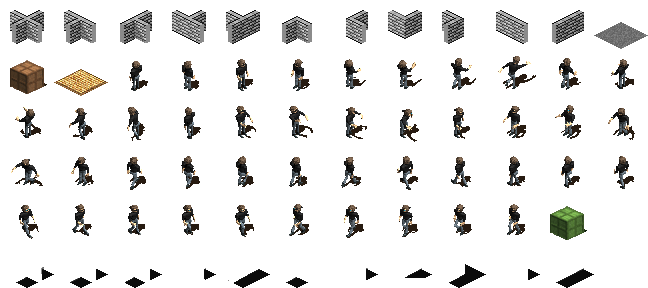
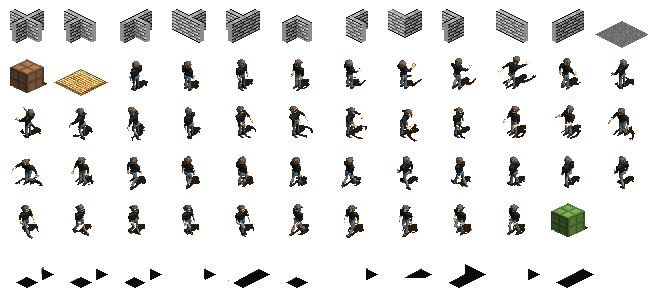
Fixed Map

diff --git a/www/examples/sokoban/world.js b/www/examples/sokoban/world.js
@@ -6,13 +6,14 @@ Sokoban.World = j5g3.GDK.Element.extend({
 	var
 		me = this,
 		ss = Sokoban.assets.spritesheet,
-		floor = me.floor = j5g3.map({ sprites: j5g3.Util.fill(30, ss.__sprites[11]), tw: 54, th: 49, offsetY: -11 }).set_iso(),
-		shadows = me.shadows = j5g3.map({ sprites: j5g3.Util.fill(30, ss.__sprites[71]), tw: 54, th: 49, offsetY: -11 }).set_iso(),
+		floor = me.floor = j5g3.map({ sprites: j5g3.Util.fill(30, ss.__sprites[11]), tw: 54, th: 48, offsetY: -10 }).set_iso(),
+		shadows = me.shadows = j5g3.map({ sprites: j5g3.Util.fill(30, ss.__sprites[71]), tw: 54, th: 48, offsetY: -10 }).set_iso(),
 		player = me.player = new Sokoban.Player({ world: this }),
-		walls = me.walls = ss.map(54, 49).offsetY(-11).set_iso(),
+		walls = me.walls = ss.map(54, 48).offsetY(-10).set_iso(),
 		boxes = me.boxes = j5g3.clip(),
 		i = 11
 	;
+		boxes.map = {}
 		me.loadMap(Sokoban.LEVELS[0]); //j5g3.id('map').value);
 
 		this.add([ floor, shadows, boxes, walls, player ]);
@@ -23,14 +24,35 @@ Sokoban.World = j5g3.GDK.Element.extend({
 		while (i--)
 			me.shadows.__sprites[i] = ss.__sprites[i+60];
 
-		ss.__sprites[11]=ss.__sprites[71];
-		ss.__sprites[13]=ss.__sprites[71];
+		ss.__sprites[11]= ss.__sprites[13] = ss.__sprites[12] = ss.__sprites[71];
 	},
 
 	addBox: function(x, y)
 	{
-		// Add Box
-		this.boxes.add(new Sokoban.Box({ mapPos: { x: x, y: y }, world: this }));
+	var
+		box = new Sokoban.Box({ mapPos: { x: x, y: y }, world: this });
+	;
+		this.boxes.add(box);
+		this.setBox(x, y, box);
+	},
+
+	getBox: function(x, y)
+	{
+		// TODO figure out if this is ok
+		return this.boxes.map[x+'-'+y];
+	},
+
+	setBox: function(x, y, box)
+	{
+		this.boxes.map[x+'-'+y] = box;
+	},
+
+	updateBoxesZ: function()
+	{
+	var
+		boxes = this.boxes.__frames[0]
+	;
+		boxes.sort(function(a, b) { return a.__y - b.__y });
 	},
 
 	loadMap: function(map)
@@ -88,7 +110,6 @@ Sokoban.World = j5g3.GDK.Element.extend({
 					break;
 				case '$':
 					this.addBox(x, y);
-					sprite = ' ';
 					break;
 				}
 
@@ -98,6 +119,7 @@ Sokoban.World = j5g3.GDK.Element.extend({
 
 		// Make it Isometric. Magic happens here.
 		this.shadows.__map = this.floor.__map = this.walls.__map = this.map.transform();
+		this.updateBoxesZ();
 	}
 
 });

diff --git a/www/examples/sokoban/player.js b/www/examples/sokoban/player.js
@@ -17,7 +17,7 @@ Sokoban.Player = j5g3.GDK.User.extend({
 		this.mapPos = { x: x, y:y }
 		startPos = world.walls.getIsometricCoords(startPos.x, startPos.y);
 
-		this.pos(startPos.x, startPos.y-4);
+		this.pos(startPos.x, startPos.y-5);
 	},
 
 	walk: function(position)
@@ -29,21 +29,21 @@ Sokoban.Player = j5g3.GDK.User.extend({
 	push: function(position)
 	{
 		Sokoban.scene.Level.stats.addPushes(1);
-// TODO Use constants
-		this.__world.map.set(position.next.x, position.next.y, 12) 
-		     .set(position.x, position.y, 11)
-		;
+		
+		this.__world.getBox(position.x, position.y).push(position);
 
 		this.animateTo(this.__x + position.mx, this.__y + position.my, 'push_' + this.direction);
-
 	},
 
 	move: function(direction)
 	{
+		var pos;
+
 		this.direction = direction;
-		if (this.mapPos = this.check_direction(direction))
+		if (pos = this.check_direction(direction))
 		{
-			this[this.mapPos.action](this.mapPos);
+			this.mapPos = pos;
+			this[pos.action](pos);
 				
 		} else
 			this.go_state('idle_' + direction);
@@ -97,11 +97,12 @@ Sokoban.Player = j5g3.GDK.User.extend({
 	;
 		if (sprite >= 0 && sprite <= 10)
 			return false;
-		if (sprite == 12)
-		{
-			// move the damn box
-			nb = this.get_direction(direction, n.x, n.y);
 
+		n.current = sprite;
+		if (sprite == 12 || sprite == 58)
+		{
+			// Check if box can be moved
+			nb = this.get_direction(direction, n.x, n.y);
 			sprite = map.get(nb.x, nb.y);
 
 			if (sprite != 11 && sprite != 13)
@@ -118,7 +119,6 @@ Sokoban.Player = j5g3.GDK.User.extend({
 	setup: function()
 	{
 	var
-
 		me = this,
 
 		go = function(direction) {
@@ -127,8 +127,8 @@ Sokoban.Player = j5g3.GDK.User.extend({
 					me.move(direction); 
 			}
 		}
-
 	;
+
 		me.direction = 'ne';
 
 		this.spritesheet(Sokoban.assets.spritesheet)

diff --git a/www/examples/sokoban/box.js b/www/examples/sokoban/box.js
@@ -21,6 +21,43 @@ Sokoban.Box = j5g3.GDK.Element.extend({
 			.go_state('normal')
 			.pos(startPos.x, startPos.y)
 		;
+	},
+
+	push: function(position)
+	{
+	var
+		me = this,
+		map = this.__world.map,
+		destination = map.get(position.next.x, position.next.y)
+		x = this.__x + position.mx,
+		y = this.__y + position.my
+	;
+		this.mapPos = position.next;
+		this.go_state('normal');
+		this.add(j5g3.tween({ 
+			target: me,
+			to: { x: x, y: y }, 
+			auto_remove: true, 
+			duration: 10,
+			on_remove: function() { 
+				if (destination == 13)
+					me.go_state('placed');
+			} 
+		}));
+			
+		map.set(position.next.x, position.next.y, destination == 13 ? 58 : 12)
+		   .set(position.x, position.y, position.current==58 ? 13 : 11)
+		;
+		this.__world.setBox(position.x, position.y, undefined);
+		this.__world.setBox(position.next.x, position.next.y, this);
+
+	},
+
+	y: function(val)
+	{
+		this.__world.updateBoxesZ();
+		return val!==undefined ? ((this.__y = val), this) : this.__y;
+		//return this._super.prototype.y.apply(this, [val]);
 	}
 
 }).properties({ mapPos: null, world: null });

diff --git a/src/Tween.js b/src/Tween.js
@@ -43,7 +43,7 @@ j5g3.Tween = Class.extend(/**@scope j5g3.Tween.prototype */ {
 	{
 	var 
 		me = this,
-		target=me.target(), i, to=me.to(), t=me.t()
+		target=me.__target, i, to=me.__to, t=me.__t
 	;
 		for (i in to)
 			target[i](me.easing(i, to[i],t ));
